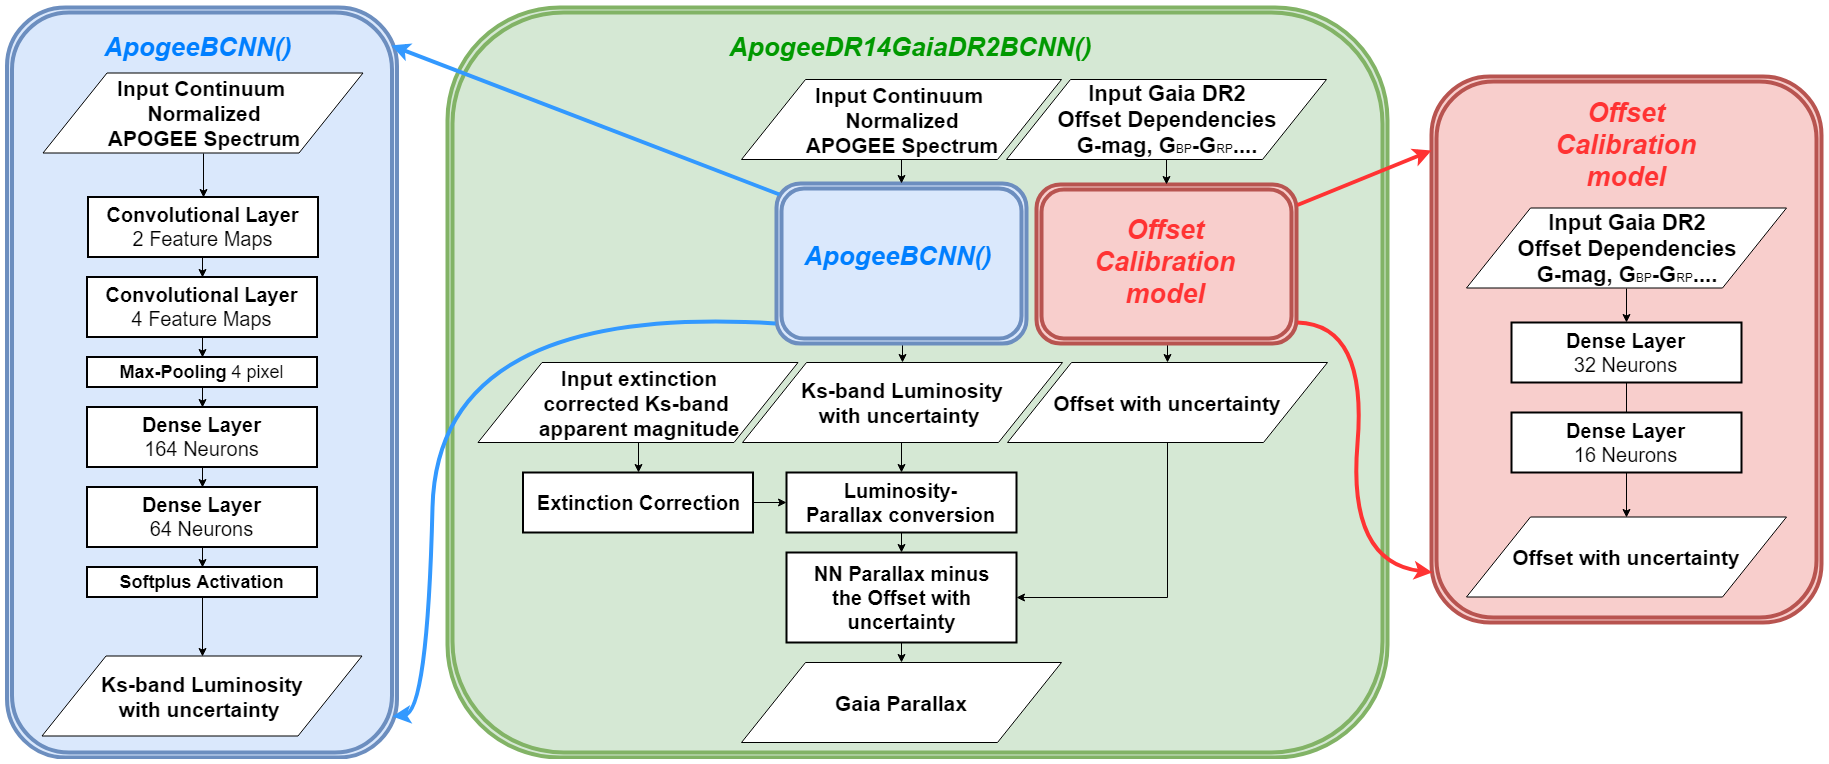
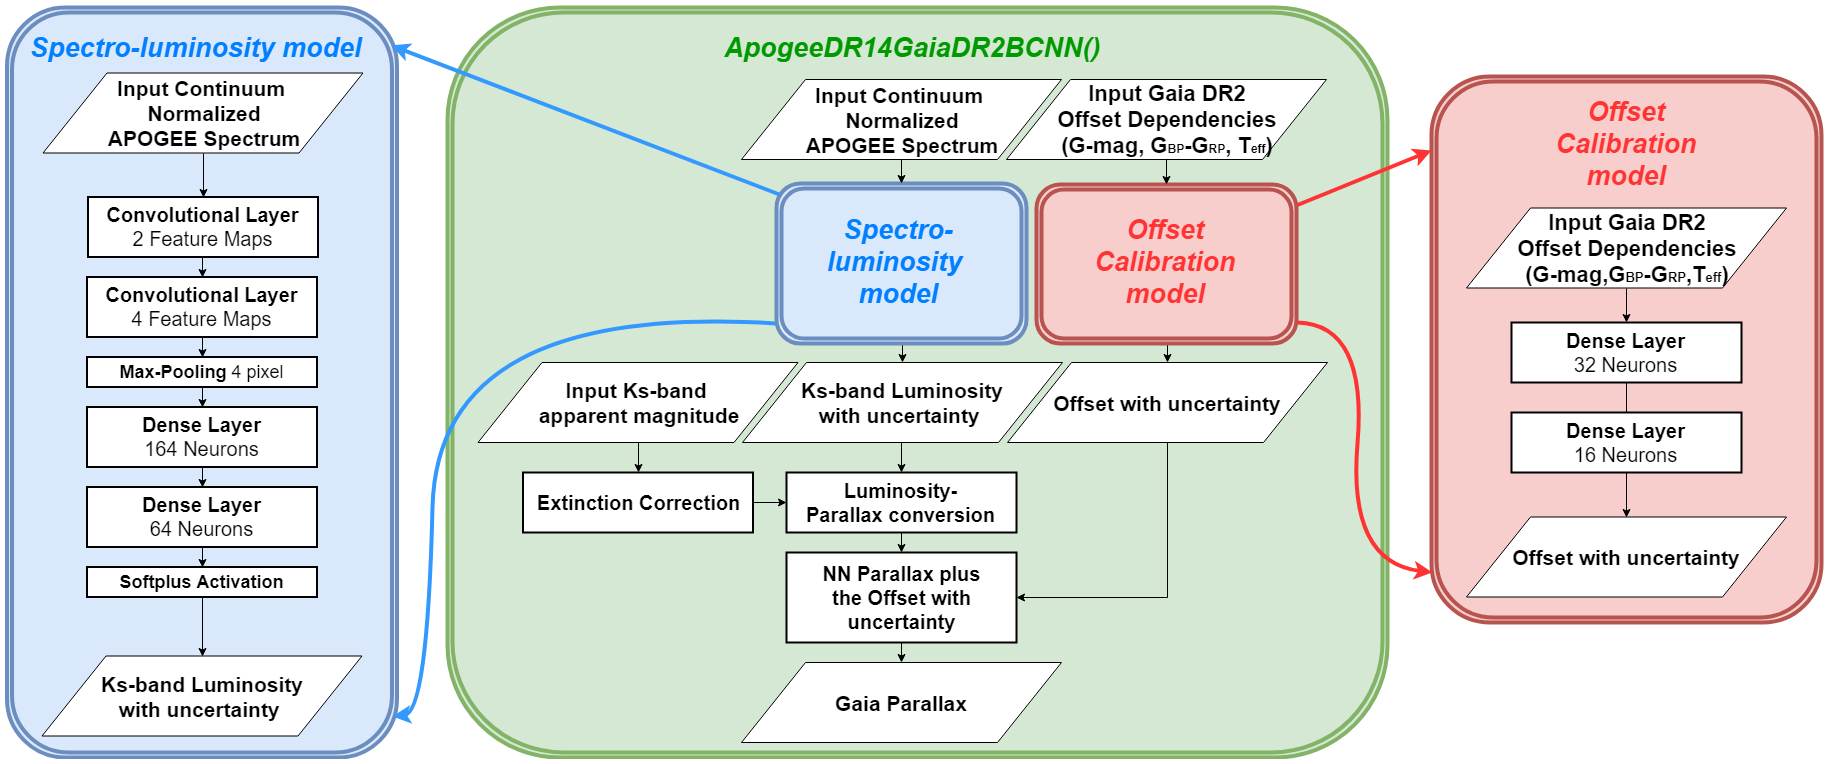
sync same terminology and image as paper [ci skip]

diff --git a/astroNN/models/apogee_models.py b/astroNN/models/apogee_models.py
@@ -684,6 +684,7 @@ class ApogeeDR14GaiaDR2BCNN(BayesianCNNBase):
         inv_pow_mag = Lambda(lambda mag: tf.pow(10., tf.multiply(-0.2, mag)))(denorm_mag)
 
         # data to infer Gia DR2 offset
+        # ========================== Offset Calibration Model ========================== #
         gaia_aux_data = BoolMask(self.gaia_aux_mask())(input_tensor)
         gaia_aux_hidden = MCDropout(self.dropout_rate, disable=self.disable_dropout)(Dense(units=self.num_hidden[2],
                                                                                            kernel_regularizer=regularizers.l2(
@@ -699,8 +700,10 @@ class ApogeeDR14GaiaDR2BCNN(BayesianCNNBase):
             gaia_aux_hidden))
         offset = Dense(units=1, kernel_initializer=self.initializer, activation='tanh', name='offset_output')(
             gaia_aux_hidden2)
+        # ========================== Offset Calibration Model ========================== #
 
         # good old NN takes spectra and output fakemag
+        # ========================== Spectro-Luminosity Model ========================== #
         cnn_layer_1 = Conv1D(kernel_initializer=self.initializer, padding="same", filters=self.num_filters[0],
                              kernel_size=self.filter_len, kernel_regularizer=regularizers.l2(self.l2))(spectra)
         activation_1 = Activation(activation=self.activation)(cnn_layer_1)
@@ -721,6 +724,7 @@ class ApogeeDR14GaiaDR2BCNN(BayesianCNNBase):
         fakemag_output = Dense(units=self._labels_shape, activation='softplus', name='fakemag_output')(activation_4)
         fakemag_variance_output = Dense(units=self._labels_shape, activation='linear',
                                         name='fakemag_variance_output')(activation_4)
+        # ========================== Spectro-Luminosity Model ========================== #
 
         # multiply a pre-determined de-normalization factor, such that fakemag std approx. 1 for training set
         # it does not really matter as NN will adapt to whatever value this is
